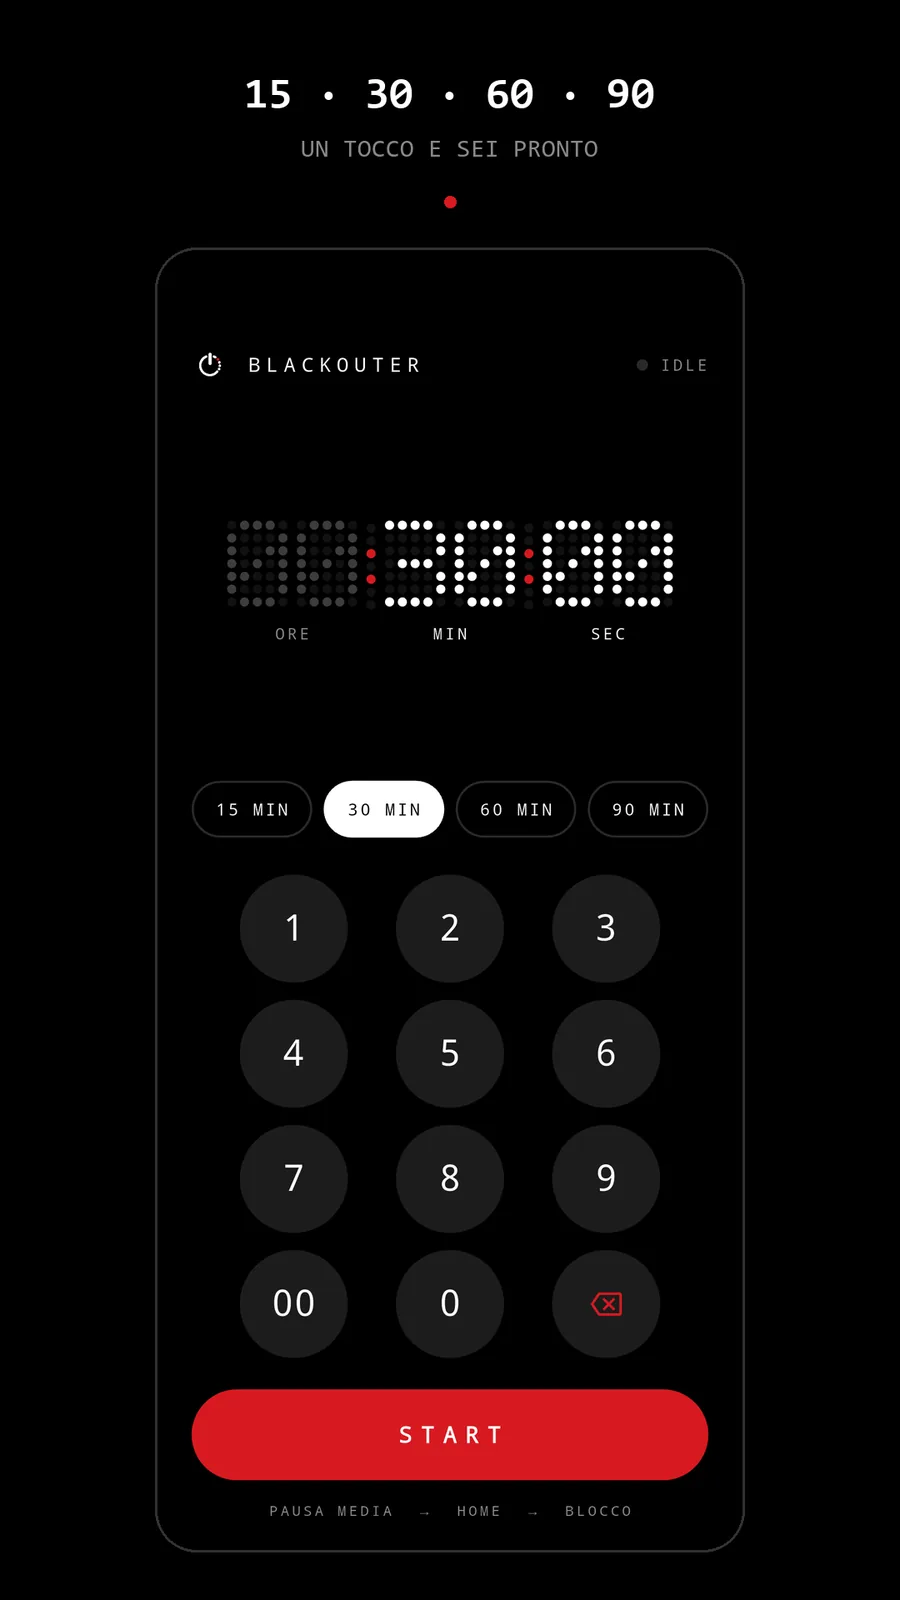
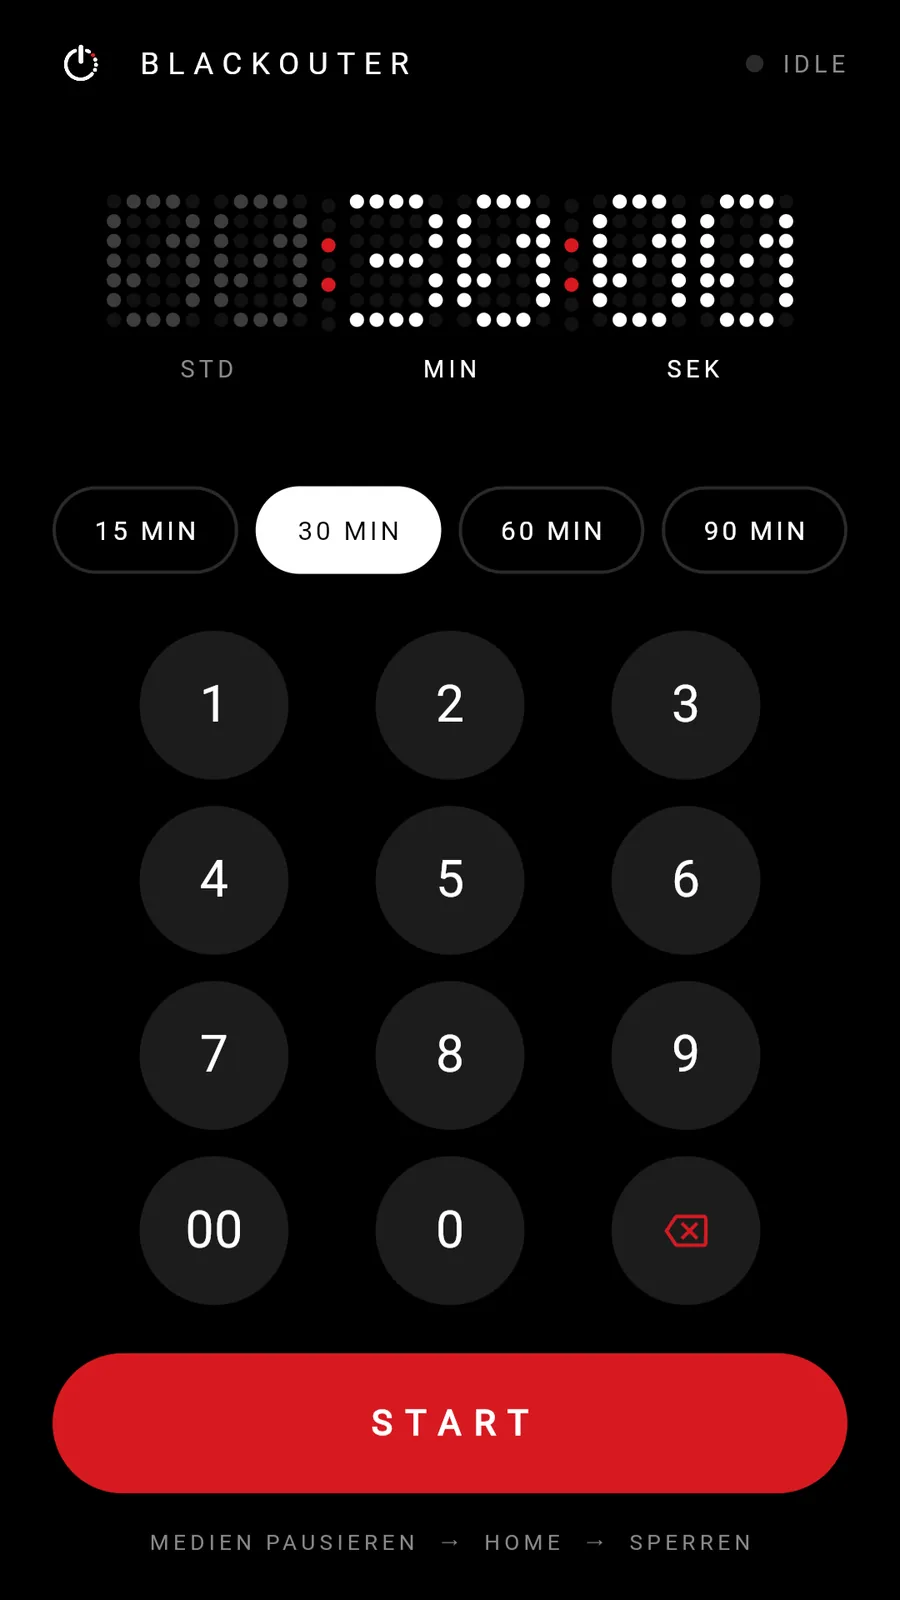
Screenshots je Sprache fuer FH6 Tempi und Blackouter

diff --git a/index.html b/index.html
@@ -185,7 +185,7 @@
         <!-- P/02 Blackouter -->
         <article class="project project--flip reveal" aria-labelledby="p-blackouter">
           <figure class="shot shot--phone">
-            <a class="zoom" href="assets/img/blackouter-1.webp"><img src="assets/img/blackouter-1.webp" width="900" height="1600" loading="lazy" decoding="async"
+            <a class="zoom" href="assets/img/blackouter-1.webp"><img src="assets/img/blackouter-1.webp" data-src-en="assets/img/blackouter-1.en.webp" data-src-it="assets/img/blackouter-1.it.webp" width="900" height="1600" loading="lazy" decoding="async"
                  alt="Blackouter: Timer auf 30 Minuten mit Dot-Matrix-Ziffern, Schnellwahltasten, Ziffernblock und roter Start-Taste" data-i18n-alt="altBlackouter"></a>
           </figure>
           <div class="project-body">
@@ -216,7 +216,7 @@
         <!-- P/03 FH6 Tempi -->
         <article class="project reveal" aria-labelledby="p-fh6">
           <figure class="shot shot--phone">
-            <a class="zoom" href="assets/img/fh6tempi-1.webp"><img src="assets/img/fh6tempi-1.webp" width="900" height="1600" loading="lazy" decoding="async"
+            <a class="zoom" href="assets/img/fh6tempi-1.webp"><img src="assets/img/fh6tempi-1.webp" data-src-en="assets/img/fh6tempi-1.en.webp" data-src-it="assets/img/fh6tempi-1.it.webp" width="900" height="1600" loading="lazy" decoding="async"
                  alt="FH6 Tempi: Liste von Rundenzeiten mit Fahrzeugklasse, Streckentyp und grün markierten Rekorden" data-i18n-alt="altFh6"></a>
           </figure>
           <div class="project-body">
